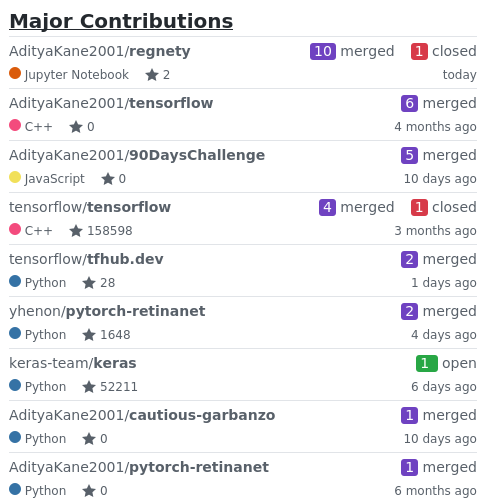
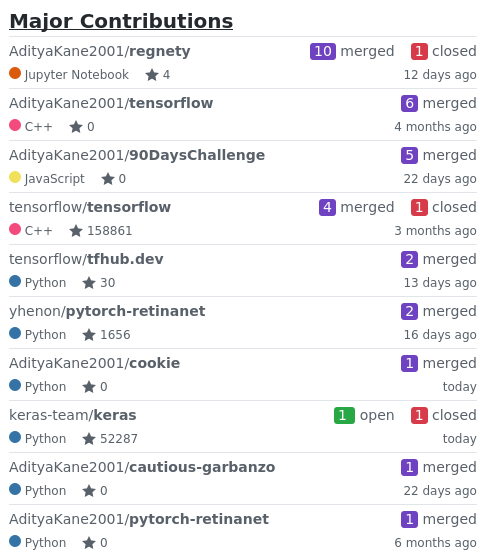
Update resources

Changed region(s): [[0.0, 0.0298, 0.57, 0.9821], [0.6, 0.0595, 0.96, 1.0], [0.66, 0.7143, 0.78, 0.7738]]

diff --git a/contributions.html b/contributions.html
@@ -109,9 +109,9 @@ fieldset{padding:0;margin:0;border:0}label{font-weight:600}.form-control,.form-s
                         <path fill-rule="evenodd"
                             d="M14 6l-4.9-.64L7 1 4.9 5.36 0 6l3.6 3.26L2.67 14 7 11.67 11.33 14l-.93-4.74L14 6z">
                         </path>
-                    </svg>&nbsp;2</div>
+                    </svg>&nbsp;4</div>
             </div>
-            <div class="f6 mt-1">today</div>
+            <div class="f6 mt-1">12 days ago</div>
         </div>
     </div>
         <div class="border-top py-1">
@@ -163,7 +163,7 @@ fieldset{padding:0;margin:0;border:0}label{font-weight:600}.form-control,.form-s
                         </path>
                     </svg>&nbsp;0</div>
             </div>
-            <div class="f6 mt-1">10 days ago</div>
+            <div class="f6 mt-1">22 days ago</div>
         </div>
     </div>
         <div class="border-top py-1">
@@ -190,7 +190,7 @@ fieldset{padding:0;margin:0;border:0}label{font-weight:600}.form-control,.form-s
                         <path fill-rule="evenodd"
                             d="M14 6l-4.9-.64L7 1 4.9 5.36 0 6l3.6 3.26L2.67 14 7 11.67 11.33 14l-.93-4.74L14 6z">
                         </path>
-                    </svg>&nbsp;158598</div>
+                    </svg>&nbsp;158861</div>
             </div>
             <div class="f6 mt-1">3 months ago</div>
         </div>
@@ -216,9 +216,9 @@ fieldset{padding:0;margin:0;border:0}label{font-weight:600}.form-control,.form-s
                         <path fill-rule="evenodd"
                             d="M14 6l-4.9-.64L7 1 4.9 5.36 0 6l3.6 3.26L2.67 14 7 11.67 11.33 14l-.93-4.74L14 6z">
                         </path>
-                    </svg>&nbsp;28</div>
+                    </svg>&nbsp;30</div>
             </div>
-            <div class="f6 mt-1">1 days ago</div>
+            <div class="f6 mt-1">13 days ago</div>
         </div>
     </div>
         <div class="border-top py-1">
@@ -242,21 +242,21 @@ fieldset{padding:0;margin:0;border:0}label{font-weight:600}.form-control,.form-s
                         <path fill-rule="evenodd"
                             d="M14 6l-4.9-.64L7 1 4.9 5.36 0 6l3.6 3.26L2.67 14 7 11.67 11.33 14l-.93-4.74L14 6z">
                         </path>
-                    </svg>&nbsp;1648</div>
+                    </svg>&nbsp;1656</div>
             </div>
-            <div class="f6 mt-1">4 days ago</div>
+            <div class="f6 mt-1">16 days ago</div>
         </div>
     </div>
         <div class="border-top py-1">
         <div class="d-flex flex-justify-between text-gray">
         <div><a target="_blank" class="link-gray no-underline"
-        href="https://github.com/keras-team/keras"><span>keras-team</span>/<span
-        class="text-bold">keras</span></a></div>
+        href="https://github.com/AdityaKane2001/cookie"><span>AdityaKane2001</span>/<span
+        class="text-bold">cookie</span></a></div>
         <div class="d-inline-flex flex-justify-end">
             <div><a target="_blank" class="link-gray no-underline"
-            href=https://github.com/search?q=is%3Apr+repo%3Akeras-team%2Fkeras+author%3AAdityaKane2001+is%3Aopen
-            style="cursor: pointer;"><span class="counter open">1
-            </span>&nbsp;open</a></div> 
+            href=https://github.com/search?q=is%3Apr+repo%3AAdityaKane2001%2Fcookie+author%3AAdityaKane2001+is%3Amerged
+            style="cursor: pointer;"><span class="counter merged">
+            1</span>&nbsp;merged</a></div>
         </div>
         </div>
         <div class="d-flex flex-justify-between text-gray">
@@ -268,9 +268,38 @@ fieldset{padding:0;margin:0;border:0}label{font-weight:600}.form-control,.form-s
                         <path fill-rule="evenodd"
                             d="M14 6l-4.9-.64L7 1 4.9 5.36 0 6l3.6 3.26L2.67 14 7 11.67 11.33 14l-.93-4.74L14 6z">
                         </path>
-                    </svg>&nbsp;52211</div>
+                    </svg>&nbsp;0</div>
             </div>
-            <div class="f6 mt-1">6 days ago</div>
+            <div class="f6 mt-1">today</div>
+        </div>
+    </div>
+        <div class="border-top py-1">
+        <div class="d-flex flex-justify-between text-gray">
+        <div><a target="_blank" class="link-gray no-underline"
+        href="https://github.com/keras-team/keras"><span>keras-team</span>/<span
+        class="text-bold">keras</span></a></div>
+        <div class="d-inline-flex flex-justify-end">
+            <div><a target="_blank" class="link-gray no-underline"
+            href=https://github.com/search?q=is%3Apr+repo%3Akeras-team%2Fkeras+author%3AAdityaKane2001+is%3Aopen
+            style="cursor: pointer;"><span class="counter open">1
+            </span>&nbsp;open</a></div> <div><a target="_blank" class="link-gray no-underline"
+            href=https://github.com/search?q=is%3Apr+repo%3Akeras-team%2Fkeras+author%3AAdityaKane2001+is%3Aclosed
+            style="cursor: pointer;">
+            <span class="counter closed">1</span>&nbsp;closed</a></div>
+        </div>
+        </div>
+        <div class="d-flex flex-justify-between text-gray">
+            <div class="d-inline-flex">
+                <div class="f6 flex-items-center mr-3 mt-1"><span class="repository-language"
+                        style="background-color: rgb(53, 114, 165);"></span>&nbsp;Python</div>
+                <div class="repository-stars"><svg xmlns="http://www.w3.org/2000/svg" width="14" height="16"
+                        viewBox="0 0 14 16">
+                        <path fill-rule="evenodd"
+                            d="M14 6l-4.9-.64L7 1 4.9 5.36 0 6l3.6 3.26L2.67 14 7 11.67 11.33 14l-.93-4.74L14 6z">
+                        </path>
+                    </svg>&nbsp;52287</div>
+            </div>
+            <div class="f6 mt-1">today</div>
         </div>
     </div>
         <div class="border-top py-1">
@@ -296,7 +325,7 @@ fieldset{padding:0;margin:0;border:0}label{font-weight:600}.form-control,.form-s
                         </path>
                     </svg>&nbsp;0</div>
             </div>
-            <div class="f6 mt-1">10 days ago</div>
+            <div class="f6 mt-1">22 days ago</div>
         </div>
     </div>
         <div class="border-top py-1">
@@ -349,9 +378,9 @@ fieldset{padding:0;margin:0;border:0}label{font-weight:600}.form-control,.form-s
                         <path fill-rule="evenodd"
                             d="M14 6l-4.9-.64L7 1 4.9 5.36 0 6l3.6 3.26L2.67 14 7 11.67 11.33 14l-.93-4.74L14 6z">
                         </path>
-                    </svg>&nbsp;2</div>
+                    </svg>&nbsp;4</div>
             </div>
-            <div class="f6 mt-1">today</div>
+            <div class="f6 mt-1">11 days ago</div>
         </div>
     </div>
         <div class="border-top py-1">
@@ -378,9 +407,9 @@ fieldset{padding:0;margin:0;border:0}label{font-weight:600}.form-control,.form-s
                         <path fill-rule="evenodd"
                             d="M14 6l-4.9-.64L7 1 4.9 5.36 0 6l3.6 3.26L2.67 14 7 11.67 11.33 14l-.93-4.74L14 6z">
                         </path>
-                    </svg>&nbsp;158598</div>
+                    </svg>&nbsp;158861</div>
             </div>
-            <div class="f6 mt-1">today</div>
+            <div class="f6 mt-1">5 days ago</div>
         </div>
     </div>
         <div class="border-top py-1">
@@ -407,9 +436,9 @@ fieldset{padding:0;margin:0;border:0}label{font-weight:600}.form-control,.form-s
                         <path fill-rule="evenodd"
                             d="M14 6l-4.9-.64L7 1 4.9 5.36 0 6l3.6 3.26L2.67 14 7 11.67 11.33 14l-.93-4.74L14 6z">
                         </path>
-                    </svg>&nbsp;52211</div>
+                    </svg>&nbsp;52287</div>
             </div>
-            <div class="f6 mt-1">today</div>
+            <div class="f6 mt-1">4 days ago</div>
         </div>
     </div>
         <div class="border-top py-1">
@@ -436,9 +465,9 @@ fieldset{padding:0;margin:0;border:0}label{font-weight:600}.form-control,.form-s
                         <path fill-rule="evenodd"
                             d="M14 6l-4.9-.64L7 1 4.9 5.36 0 6l3.6 3.26L2.67 14 7 11.67 11.33 14l-.93-4.74L14 6z">
                         </path>
-                    </svg>&nbsp;1682</div>
+                    </svg>&nbsp;1709</div>
             </div>
-            <div class="f6 mt-1">22 days ago</div>
+            <div class="f6 mt-1">3 days ago</div>
         </div>
     </div>
         <div class="border-top py-1">
@@ -464,7 +493,7 @@ fieldset{padding:0;margin:0;border:0}label{font-weight:600}.form-control,.form-s
                         </path>
                     </svg>&nbsp;119</div>
             </div>
-            <div class="f6 mt-1">21 days ago</div>
+            <div class="f6 mt-1">1 months ago</div>
         </div>
     </div>
         <div class="border-top py-1">
@@ -487,9 +516,9 @@ fieldset{padding:0;margin:0;border:0}label{font-weight:600}.form-control,.form-s
                         <path fill-rule="evenodd"
                             d="M14 6l-4.9-.64L7 1 4.9 5.36 0 6l3.6 3.26L2.67 14 7 11.67 11.33 14l-.93-4.74L14 6z">
                         </path>
-                    </svg>&nbsp;5610</div>
+                    </svg>&nbsp;5622</div>
             </div>
-            <div class="f6 mt-1">18 days ago</div>
+            <div class="f6 mt-1">30 days ago</div>
         </div>
     </div>
         <div class="border-top py-1">
@@ -512,7 +541,7 @@ fieldset{padding:0;margin:0;border:0}label{font-weight:600}.form-control,.form-s
                         <path fill-rule="evenodd"
                             d="M14 6l-4.9-.64L7 1 4.9 5.36 0 6l3.6 3.26L2.67 14 7 11.67 11.33 14l-.93-4.74L14 6z">
                         </path>
-                    </svg>&nbsp;3491</div>
+                    </svg>&nbsp;3509</div>
             </div>
             <div class="f6 mt-1">2 months ago</div>
         </div>
@@ -613,7 +642,7 @@ fieldset{padding:0;margin:0;border:0}label{font-weight:600}.form-control,.form-s
                         <path fill-rule="evenodd"
                             d="M14 6l-4.9-.64L7 1 4.9 5.36 0 6l3.6 3.26L2.67 14 7 11.67 11.33 14l-.93-4.74L14 6z">
                         </path>
-                    </svg>&nbsp;537</div>
+                    </svg>&nbsp;543</div>
             </div>
             <div class="f6 mt-1">4 months ago</div>
         </div>
@@ -663,7 +692,7 @@ fieldset{padding:0;margin:0;border:0}label{font-weight:600}.form-control,.form-s
                         <path fill-rule="evenodd"
                             d="M14 6l-4.9-.64L7 1 4.9 5.36 0 6l3.6 3.26L2.67 14 7 11.67 11.33 14l-.93-4.74L14 6z">
                         </path>
-                    </svg>&nbsp;49</div>
+                    </svg>&nbsp;50</div>
             </div>
             <div class="f6 mt-1">3 months ago</div>
         </div>
@@ -688,7 +717,7 @@ fieldset{padding:0;margin:0;border:0}label{font-weight:600}.form-control,.form-s
                         <path fill-rule="evenodd"
                             d="M14 6l-4.9-.64L7 1 4.9 5.36 0 6l3.6 3.26L2.67 14 7 11.67 11.33 14l-.93-4.74L14 6z">
                         </path>
-                    </svg>&nbsp;1648</div>
+                    </svg>&nbsp;1656</div>
             </div>
             <div class="f6 mt-1">3 months ago</div>
         </div>
